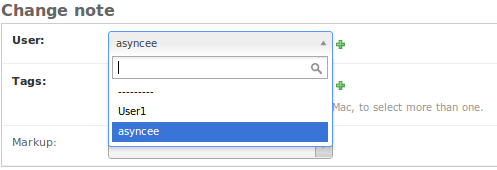
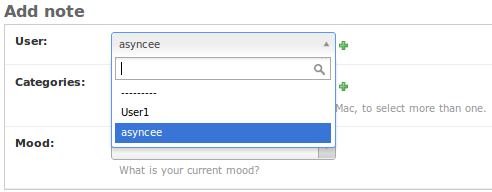
Updated documentation and screenshots

Changed region(s): [[0.0, 0.0, 1.0, 1.0]]

diff --git a/README.rst b/README.rst
@@ -7,25 +7,25 @@ in admin.
 How it looks
 ~~~~~~~~~~~~
 
-Select2 single-valued choice field (ForeignKeyField, for example):
+Select one of existing values with single-valued choice field
+(ForeignKeyField, for example):
 
 .. image:: https://github.com/asyncee/django-easy-select2/raw/master/screenshots/select2_single.png
     :target: https://github.com/asyncee/django-easy-select2/raw/master/screenshots/select2_single.png
 
-Select2 multiple-valued choice field (ManyToManyField):
+Easily select 1 or more "categories" for your project, you can also
+add a new one in the normal, Django-Admin manner by using the green + button
+with multiple-valued choice field (ManyToManyField):
 
 .. image:: https://github.com/asyncee/django-easy-select2/raw/master/screenshots/select2_multiple.png
     :target: https://github.com/asyncee/django-easy-select2/raw/master/screenshots/select2_multiple.png
 
-Select2 text input with some choices:
+Don't see the "mood" you want? No problem, just type in a new one.
+It will be there as a choice for the next time too (text input).
 
-.. image:: https://github.com/asyncee/django-easy-select2/raw/master/screenshots/select2_text_input_choices.png
-    :target: https://github.com/asyncee/django-easy-select2/raw/master/screenshots/select2_text_input_choices.png
+.. image:: https://github.com/asyncee/django-easy-select2/raw/master/screenshots/select2_text_input.png
+    :target: https://github.com/asyncee/django-easy-select2/raw/master/screenshots/select2_text_input.png
 
-Same input with "custom markup type" value:
-
-.. image:: https://github.com/asyncee/django-easy-select2/raw/master/screenshots/select2_text_input_new_choice.png
-    :target: https://github.com/asyncee/django-easy-select2/raw/master/screenshots/select2_text_input_new_choice.png
 
 Installation
 ~~~~~~~~~~~~
